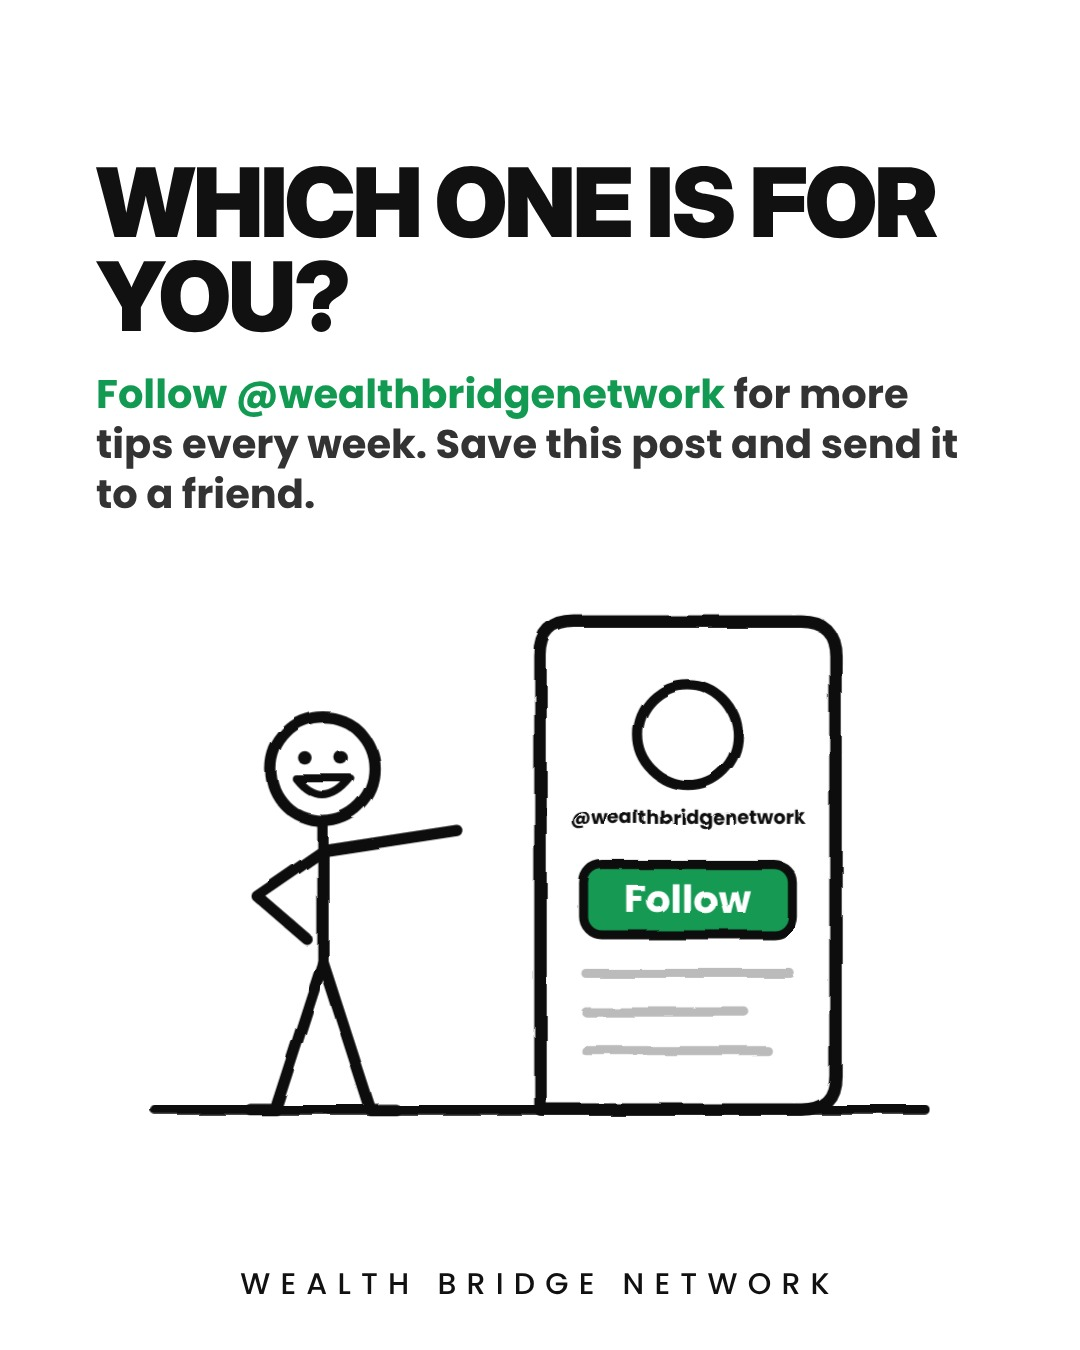
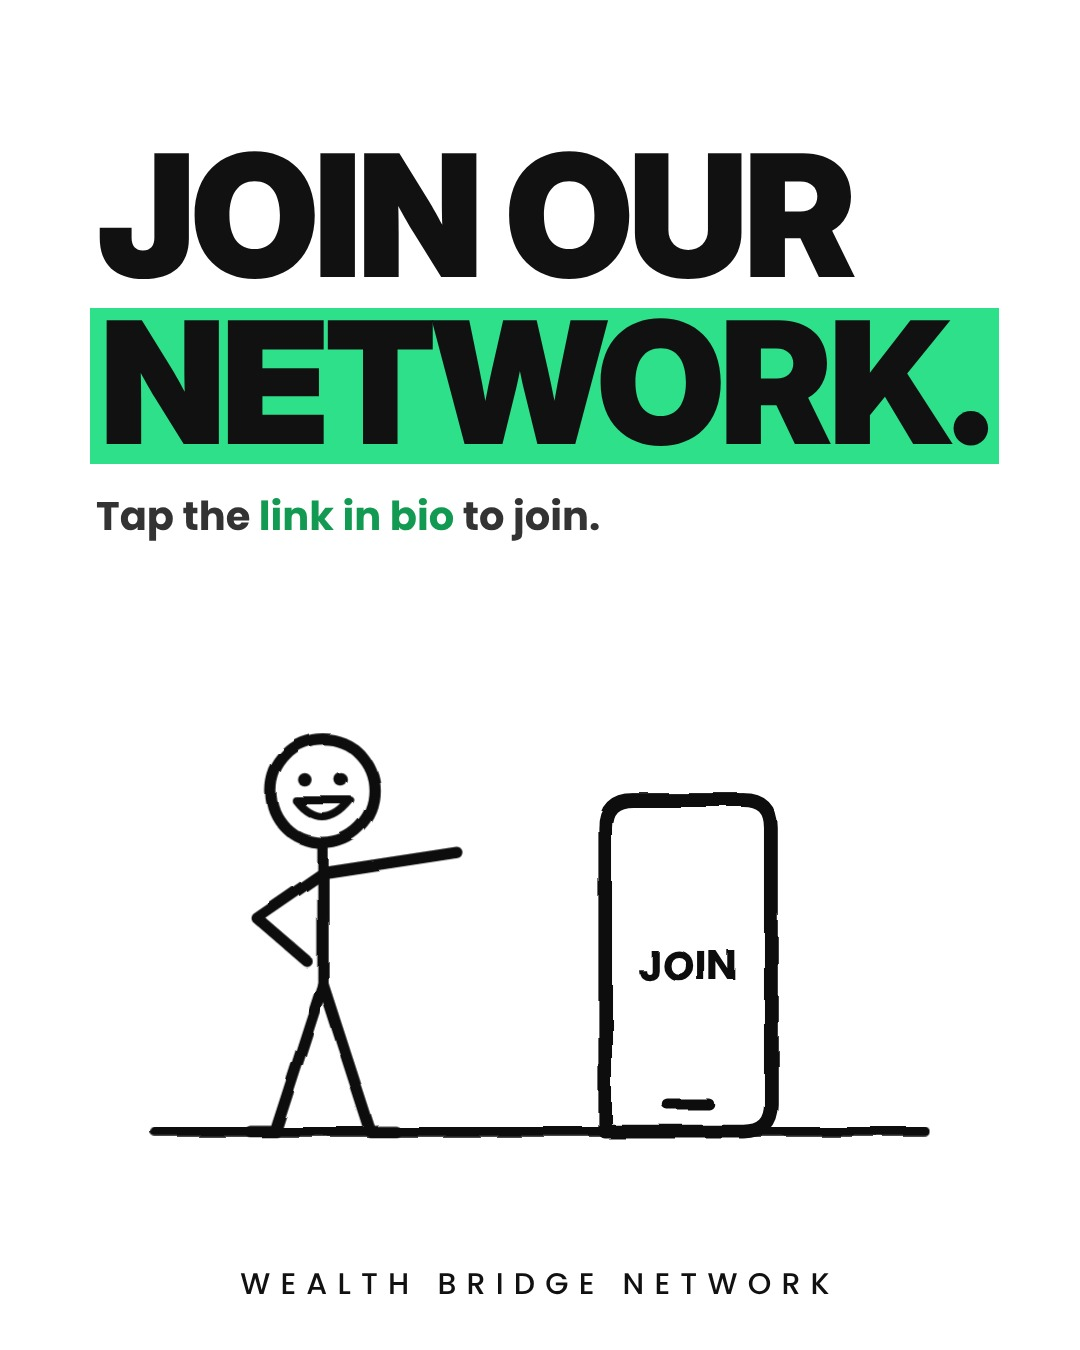
48-five-ways: last slide 'Join our network' + link in bio
Claude-Session: https://claude.ai/code/session_01XWHiAw1FC92SEhPtnn4Xv2

Changed region(s): [[0.0611, 0.0933, 0.9472, 0.4044], [0.1222, 0.4356, 0.8556, 0.8711]]

diff --git a/content/five_ways.py b/content/five_ways.py
@@ -66,6 +66,8 @@ dict(id="48-five-ways", pillar="Opportunities", title="4 ways to benefit from Ch
    (lambda x, y: coins(x, y, 0.8, 4), "Stipend", ["2,500-3,000", "RMB a month"]),
    (lambda x, y: phone(x, y, 0.55, "APPLY"), "Apply", ["Usually Jan-Apr", "via an institute"]),
  ], CSC),
- cta("Which one is for you?"),
+ dict(hook="Join our\n*network.*", hs=170,
+      kick="Tap the *link in bio* to join.",
+      scene=ground(60, 840, 560) + figure(230, 560, 1.15, "point", "grin") + phone(600, 560, 1.4, "JOIN"), vh=580),
 ]),
 ]
